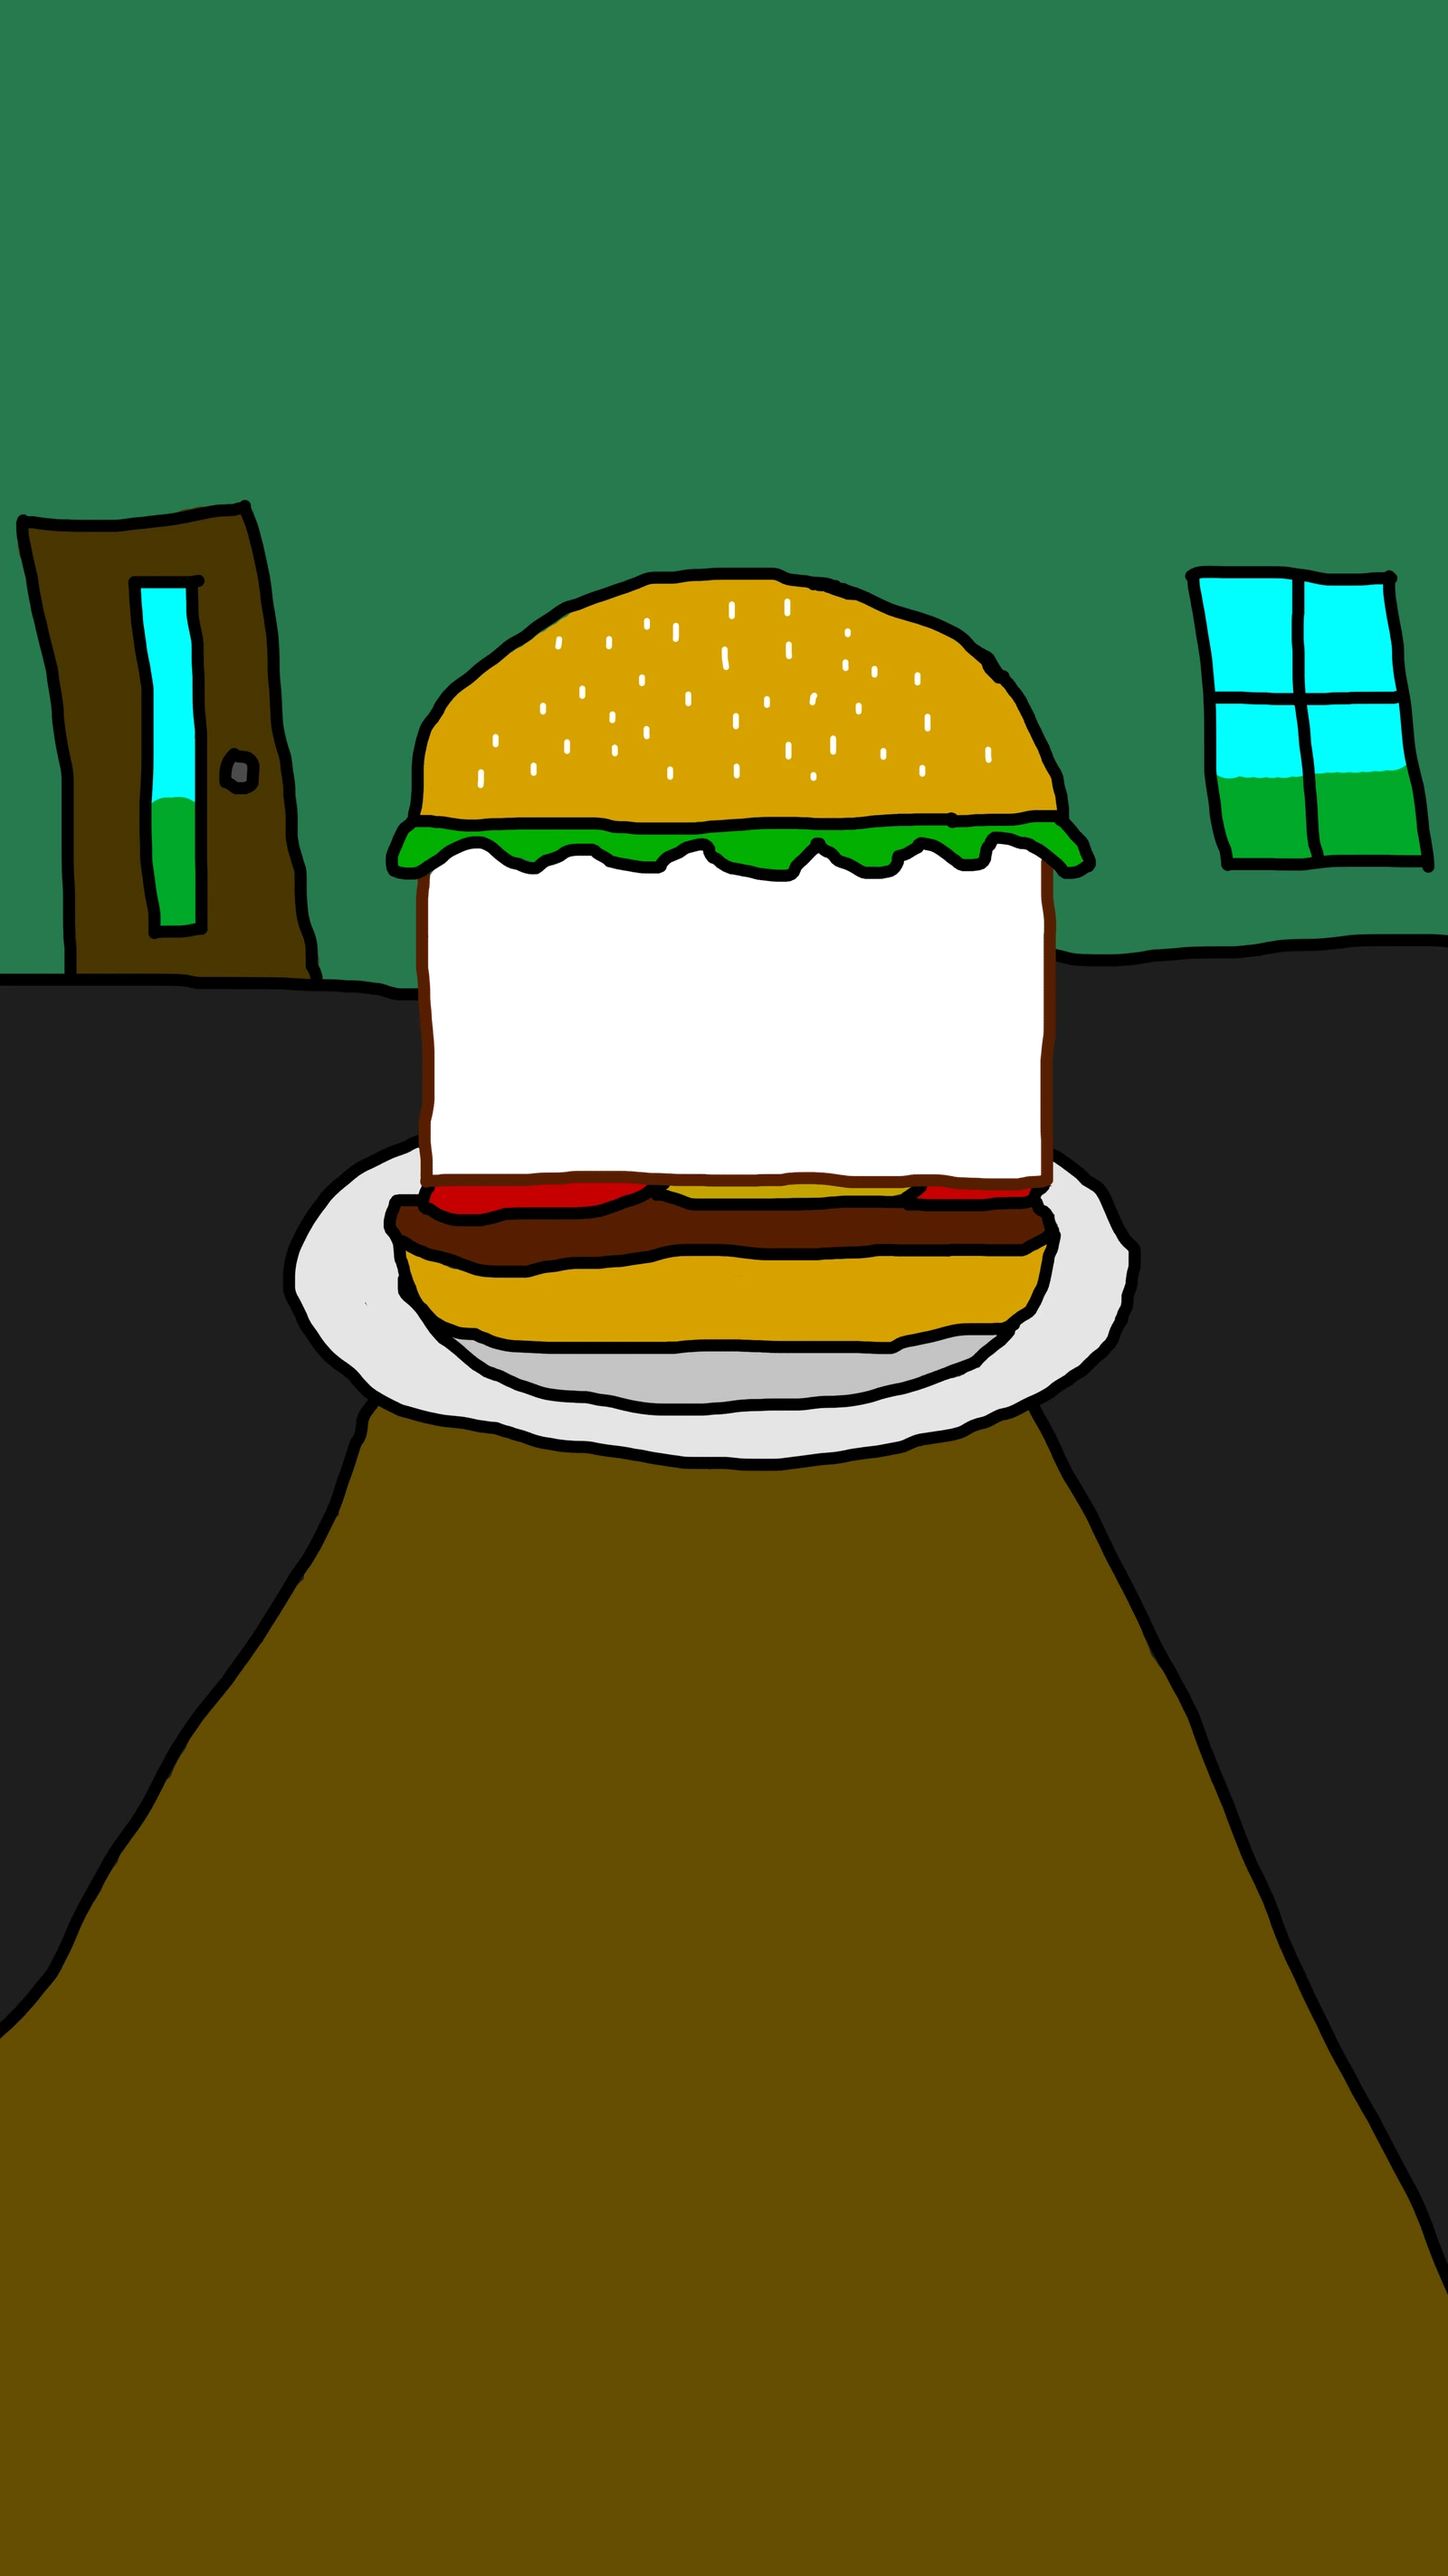
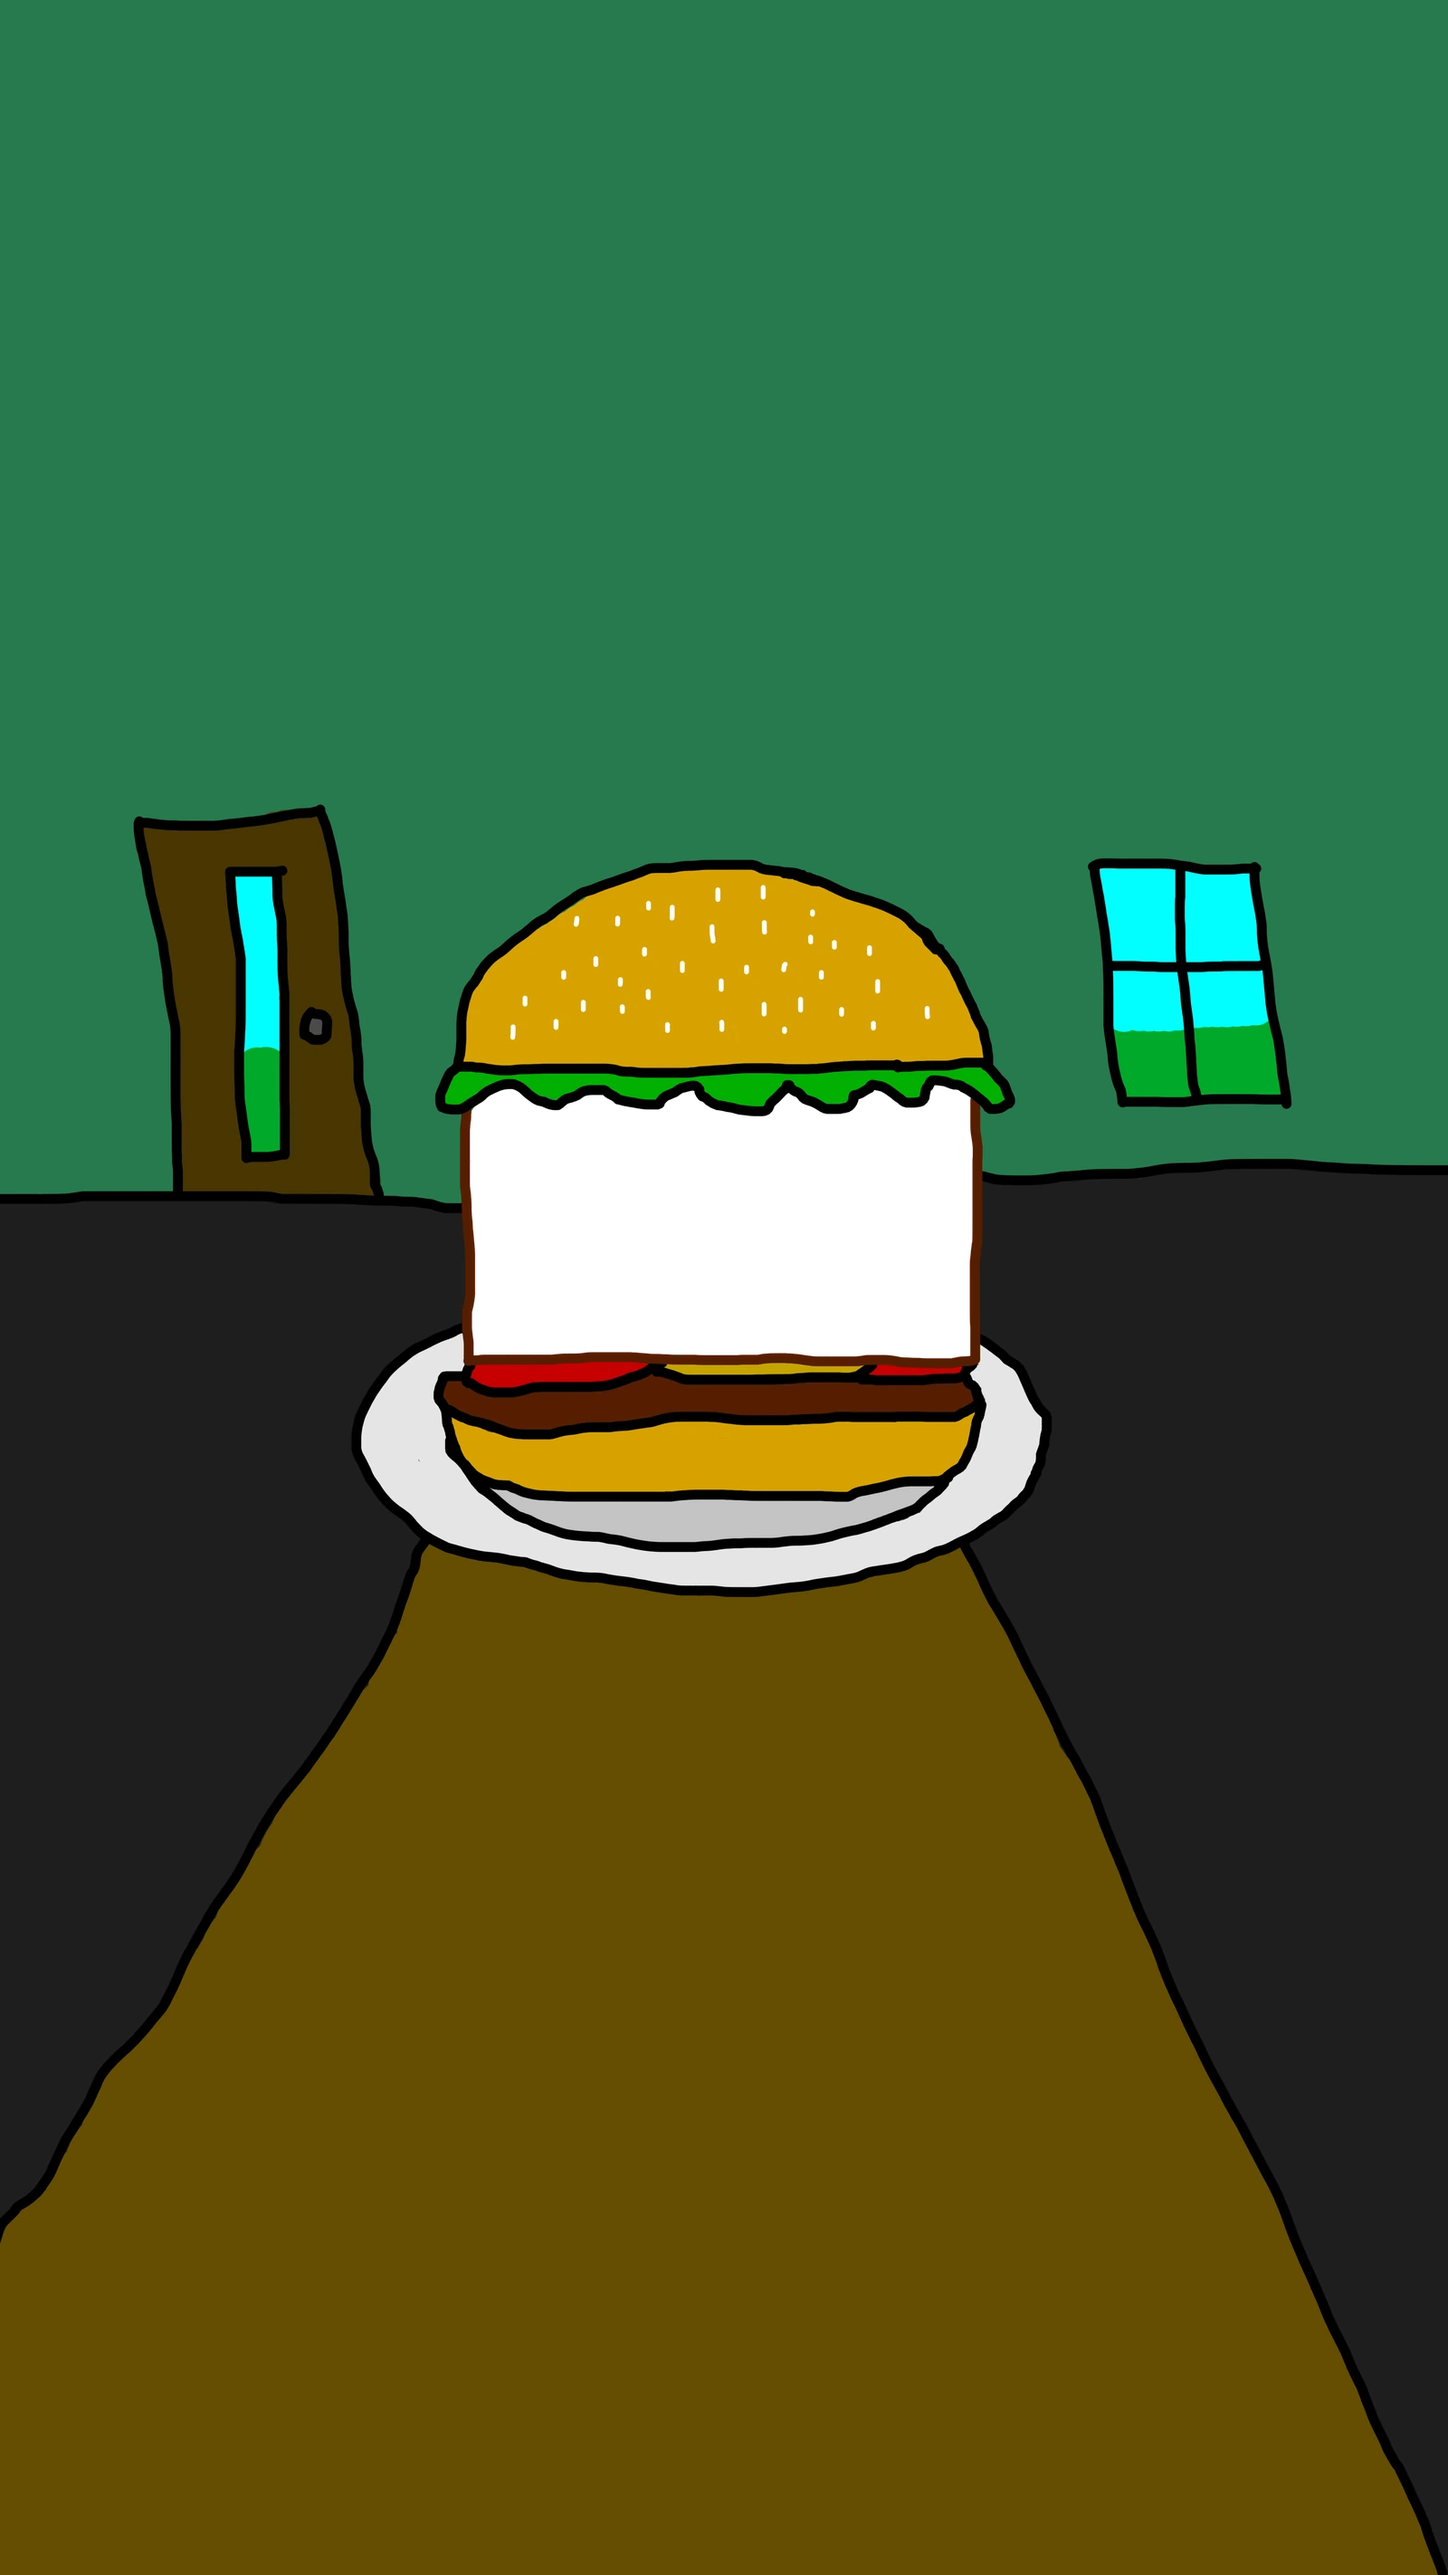
Stop artificially zooming hamburgernews.html's mobile view (#197)
Root cause of "still WAY too zoomed in": MIN_VIDEO_FRAC was a single
shared floor value applied to both variants, but it was calibrated
against the SQUARE desktop canvas, where a big floor is genuinely
needed (plain cover-fit alone renders the video unreadably small
there). The mobile canvas doesn't have that problem — it's already
drawn close to a real phone's own aspect ratio — so the same floor
was routinely demanding MORE scale than cover-fit alone would ever
produce, not just topping it up when cover-fit fell short. Confirmed
by the numbers: on the previous mobile asset, a real ~393x852 phone's
plain cover-fit scale was 0.13, but the shared 0.25 floor forced 0.25
— nearly 2x more zoom than the art needed, which is exactly what
pushed the bun off the top of the screen and left a huge stretch of
empty floor showing at the bottom (the video's own position within the
canvas isn't centered the same way the canvas's own geometry is, so
over-zooming amplifies that mismatch).

Fix: VARIANTS now carries its own minVideoFrac per image instead of
one shared constant — desktop keeps 0.25 (still needed, unchanged),
mobile drops to 0 (pure cover-fit, no artificial zoom on top of it).

Also swapped in the user's newest mobile background — same burger art
again (video slot still exactly 1560x845), recentered on an even
larger canvas (4500x8000, up from 3674x6532) with more margin on every
side specifically to give cover-fit's own crop more room to work with
[…]

diff --git a/videos/hamburgernews.html b/videos/hamburgernews.html
@@ -172,30 +172,39 @@
   // `@media (max-width: 860px)`), reused here for the same "narrow
   // enough to count as a phone" cutoff rather than inventing a new one.
   var MOBILE_MAX_WIDTH = 860;
+  // minVideoFrac floors the video's own size at a fraction of the
+  // viewport on whichever axis binds, even if that means scaling past
+  // plain cover-fit (and cropping further into whatever margin the art
+  // has to spare) — desktop's square canvas genuinely needs this: plain
+  // cover alone renders the video too small to read on an ordinary
+  // desktop window once the background is this much bigger than the
+  // video slot cut into it.
+  //
+  // Mobile's canvas doesn't have that problem, because it isn't a
+  // generic oversized square being cropped down to a phone's shape — the
+  // artist drew it AT roughly a phone's own aspect ratio on purpose, so
+  // plain cover-fit already lands close to right on its own. A shared
+  // floor value was tried across both variants (twice) and, each time,
+  // ended up zooming mobile in far past what the art needed — confirmed
+  // by checking the exact numbers: on a canvas already this close to a
+  // real phone's shape, that floor's minimum-size guarantee was
+  // routinely demanding MORE scale than cover-fit alone would ever
+  // produce, not just topping it up when cover-fit fell short. minVideoFrac:
+  // 0 for mobile means pure cover-fit, no artificial zoom on top of it.
   var VARIANTS = {
     desktop: {
       src: '/hamburger-news-bg.webp',
       imgW: 8000, imgH: 8000,
-      hole: { x: 3211, y: 3373, w: 1560, h: 845 }
+      hole: { x: 3211, y: 3373, w: 1560, h: 845 },
+      minVideoFrac: 0.25
     },
     mobile: {
       src: '/hamburger-news-bg-mobile.webp',
-      imgW: 3674, imgH: 6532,
-      hole: { x: 1087, y: 2141, w: 1560, h: 845 }
+      imgW: 4500, imgH: 8000,
+      hole: { x: 1461, y: 3373, w: 1560, h: 845 },
+      minVideoFrac: 0
     }
   };
-  // Plain cover-fit scale alone renders the video too small to read on
-  // an ordinary desktop window once the background canvas is this much
-  // bigger than the video slot cut into it — this floors the video's own
-  // size at a fraction of the viewport on whichever axis binds, even if
-  // that means scaling past cover-fit (and cropping further into the
-  // huge margin the art already has to spare for exactly this). Shared
-  // by both variants — a mobile-only *floor value* was tried previously
-  // (chasing a mobile-specific mockup on the old square-only art) and
-  // just made mobile and desktop behave inconsistently without actually
-  // landing right, so this stays one number; mobile now gets its own
-  // look from VARIANTS.mobile's own art/proportions instead.
-  var MIN_VIDEO_FRAC = 0.25;
 
   // window.innerWidth/innerHeight lag behind on iOS Safari while the
   // address bar is animating in/out of view — visualViewport tracks the
@@ -223,9 +232,10 @@
       stageBg.src = variant.src;
     }
     var imgW = variant.imgW, imgH = variant.imgH, hole = variant.hole;
+    var minVideoFrac = variant.minVideoFrac;
     var scale = Math.max(
       vp.w / imgW, vp.h / imgH,
-      MIN_VIDEO_FRAC * vp.w / hole.w, MIN_VIDEO_FRAC * vp.h / hole.h
+      minVideoFrac * vp.w / hole.w, minVideoFrac * vp.h / hole.h
     );
     var offX = (vp.w - imgW * scale) / 2;
     var offY = (vp.h - imgH * scale) / 2;
